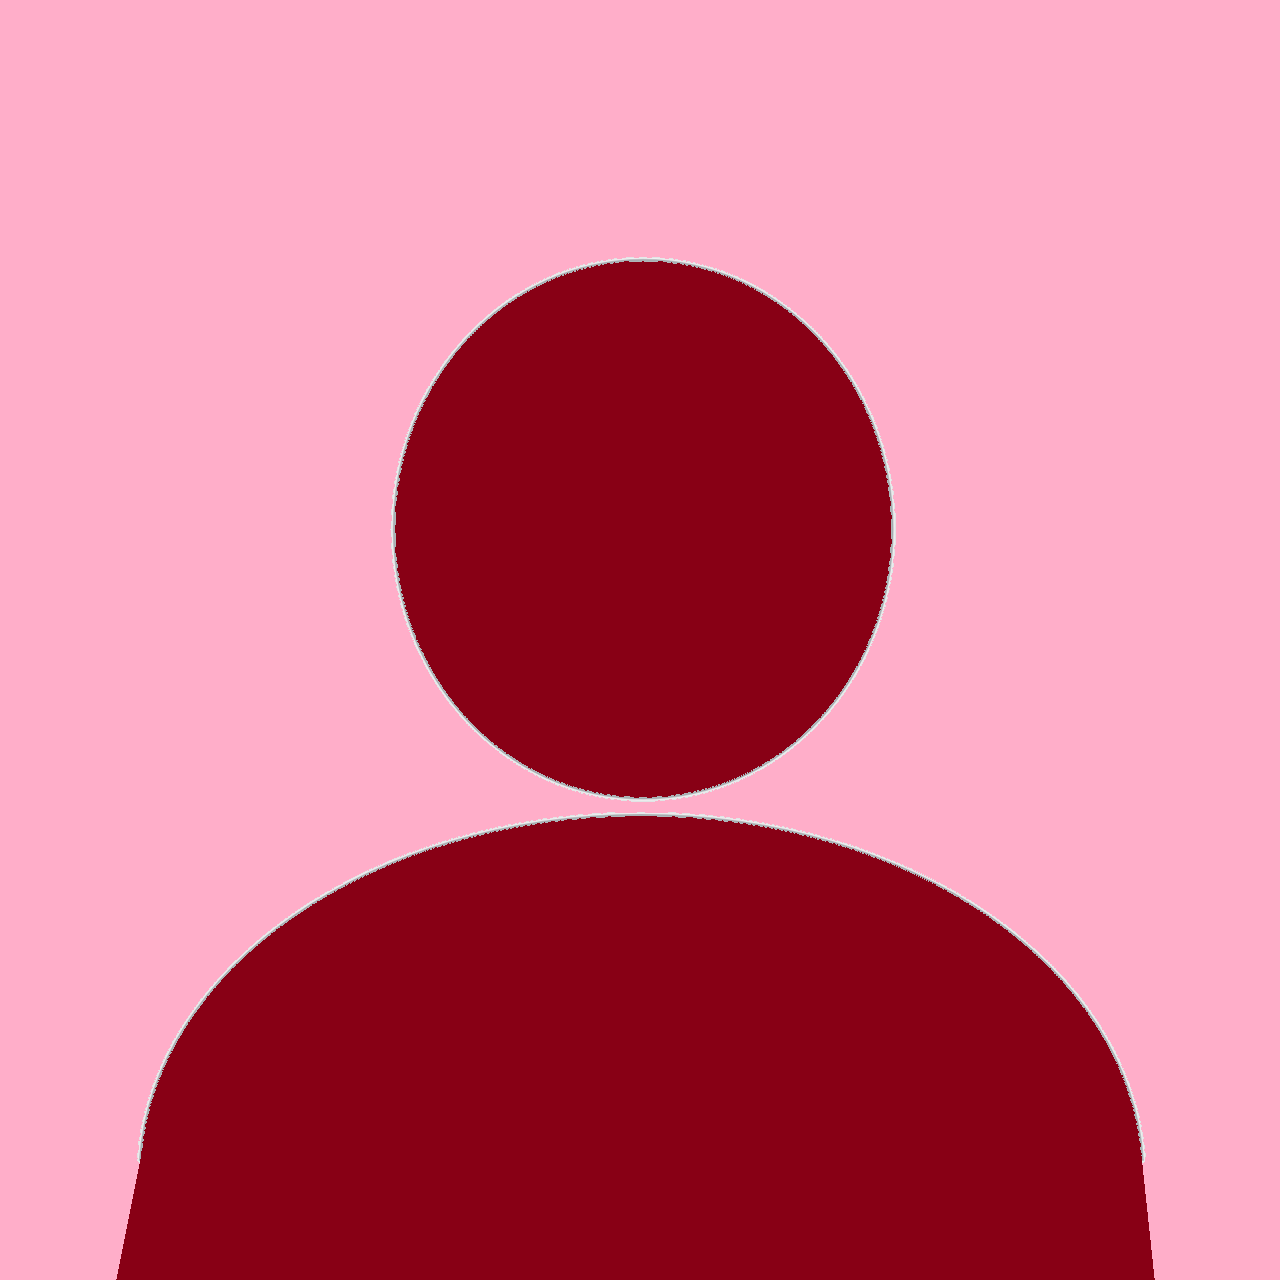
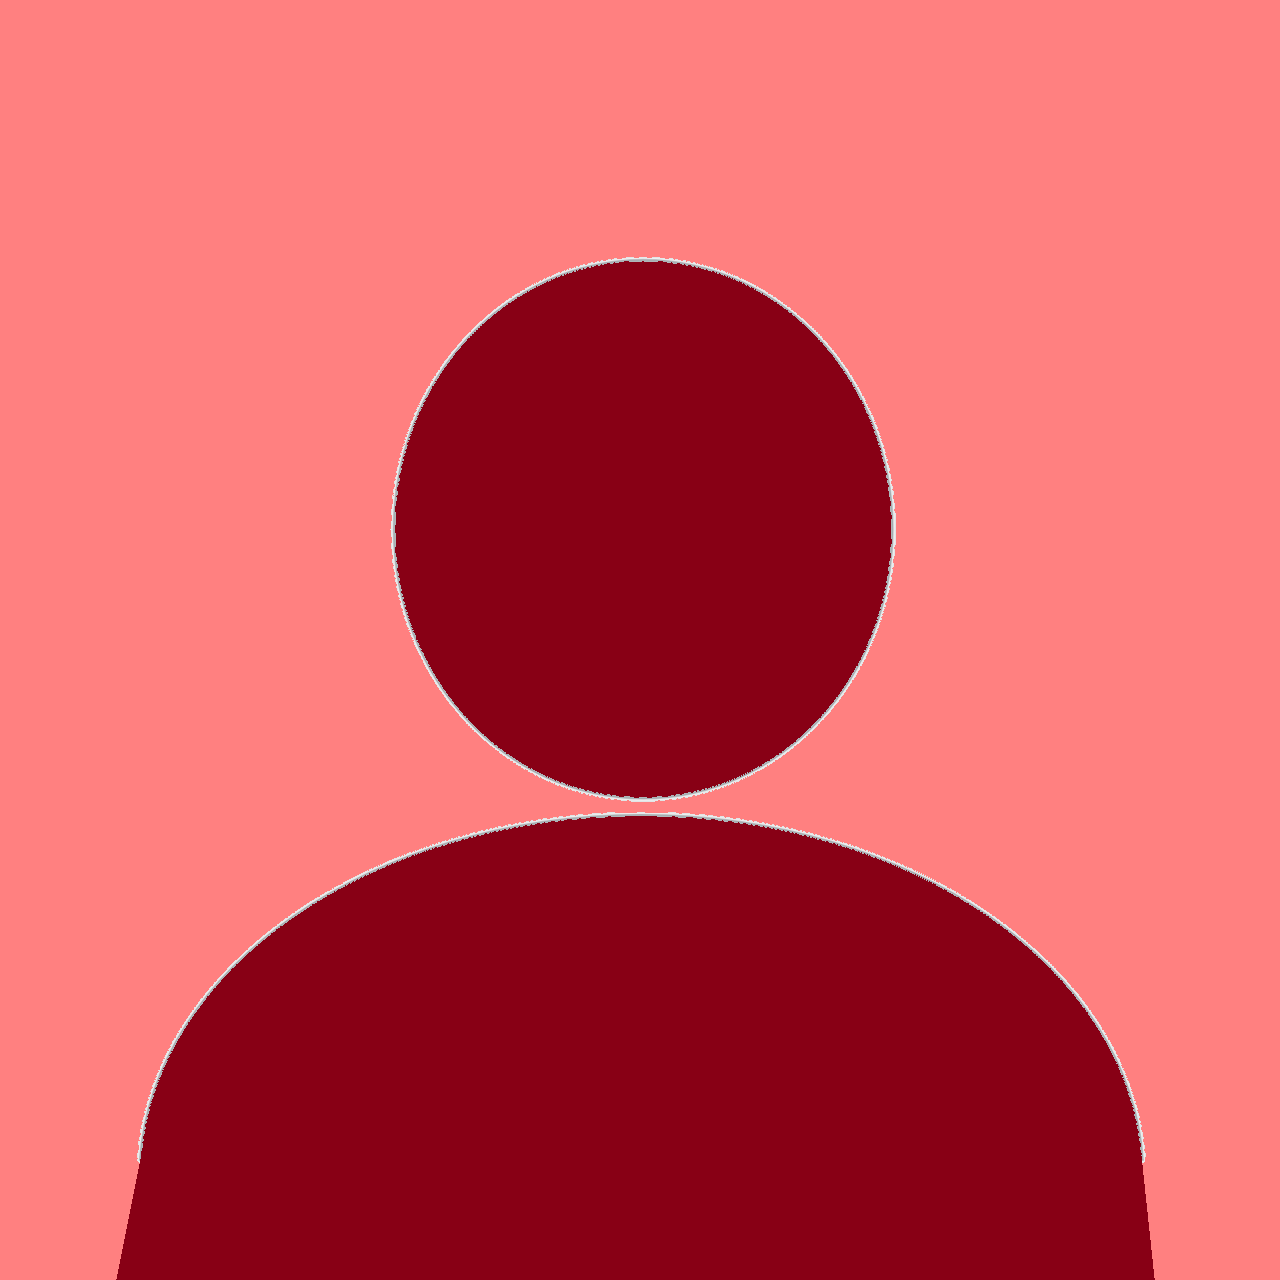
style: user section

diff --git a/frontend/src/components/admin/sections/CollabSection.js b/frontend/src/components/admin/sections/CollabSection.js
@@ -1,5 +1,5 @@
 import React, { useState } from 'react';
-import { View, Text, TouchableOpacity, Alert } from 'react-native';
+import { View, Text, TouchableOpacity, Image, Alert } from 'react-native';
 import AsyncStorage from '@react-native-async-storage/async-storage';
 import styles from '../../../styles/AdminSectionStyles'; 
 import getApiUrl from '../../../utils/apiUrl';
@@ -56,21 +56,18 @@ const CollabSection = ({ colaboradores, handleEdit, setColaboradores }) => {
       {colaboradoresFiltrados.map((colaborador, index) => (
         <View key={colaborador._id || `colaborador-${index}`} style={styles.card}>
           <TouchableOpacity onPress={() => handleCardPress(colaborador._id)}>
-            <Text style={styles.cardTitle}>
-              {colaborador.nombre} {colaborador.apellido}
-            </Text>
-            <Text style={styles.cardDetail}>
-              <Text style={styles.labelText}>RUT: </Text>{colaborador.rut}
-            </Text>
-            <Text style={styles.cardDetail}>
-              <Text style={styles.labelText}>Teléfono: </Text>{colaborador.phone}
-            </Text>
-            <Text style={styles.cardDetail}>
-              <Text style={styles.labelText}>Especialidad: </Text>{colaborador.specialty}
-            </Text>
-            <Text style={styles.cardDetail}>
-              <Text style={styles.labelText}>Email: </Text>{colaborador.email}
-            </Text>
+            {/* Contenedor del título y la imagen */}
+            <View style={styles.titleContainer}>
+              <Text style={[styles.cardTitle, { fontSize: 22 }]}>{colaborador.nombre} {colaborador.apellido}</Text>
+              <View style={styles.profileCircle}>
+                <Image source={require('../../../../assets/blank-user-image.png')} style={[styles.profileImage, { top: 6 }]} />
+              </View>            
+            </View>
+
+            <Text style={styles.cardDetail}><Text style={styles.labelText}>RUT: </Text>{colaborador.rut}</Text>
+            <Text style={styles.cardDetail}><Text style={styles.labelText}>Teléfono: </Text>{colaborador.phone}</Text>
+            <Text style={styles.cardDetail}><Text style={styles.labelText}>Especialidad: </Text>{colaborador.specialty}</Text>
+            <Text style={styles.cardDetail}><Text style={styles.labelText}>Email: </Text>{colaborador.email}</Text>
           </TouchableOpacity>
 
           {selectedCard === colaborador._id && (

diff --git a/frontend/src/styles/AdminSectionStyles.js b/frontend/src/styles/AdminSectionStyles.js
@@ -77,6 +77,7 @@ const styles = StyleSheet.create({
         flexDirection: 'row',
         alignItems: 'center',
         justifyContent: 'space-between',
+        marginTop: -15,
         marginBottom: -20,
         width: '100%',
       },       
@@ -85,6 +86,7 @@ const styles = StyleSheet.create({
         height: 80,
         borderRadius: 45,
         overflow: 'hidden',
+        top: 20,
         backgroundColor: '#ff8383',
       },
       profileImage: {
